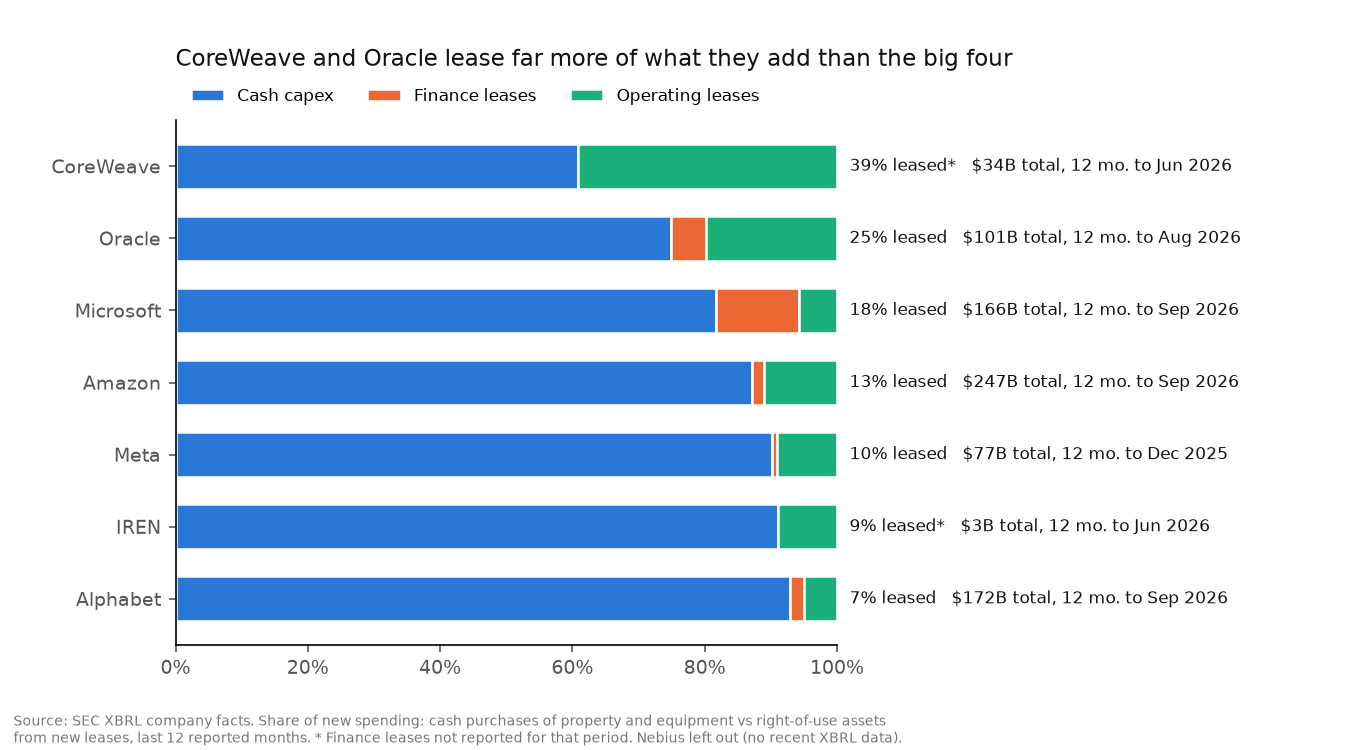
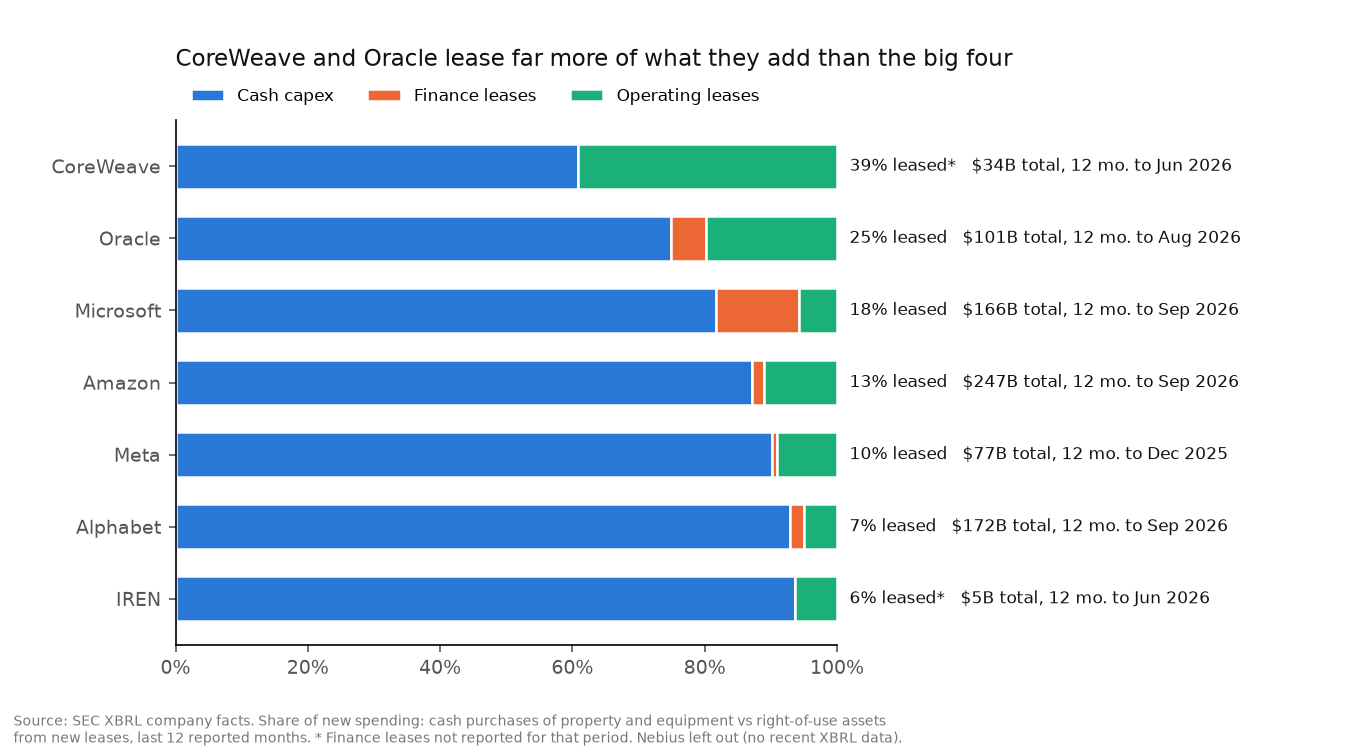
Day 7: capex checked against filings, IREN GPU capex, Amazon call notes

diff --git a/src/check_capex.py b/src/check_capex.py
@@ -1,0 +1,68 @@
+# ==============================================================================
+# Script: check_capex.py
+# Project: Grid Bottleneck - Check SEC XBRL capex against the filings themselves
+# Objective: For each cached 10-Q and 10-K, find the capex line in the cash flow
+#            statement and confirm the XBRL year-to-date value appears in it.
+# Inputs:  data/raw/sec/<company>.json, data/raw/sec/filings/*.txt
+#          (run lease_notes.py first to download the filings)
+# Outputs: data/clean/capex_check.csv
+# ==============================================================================
+
+from pathlib import Path
+import glob
+import json
+import re
+
+import pandas as pd
+
+ROOT = Path(__file__).resolve().parent.parent
+# company: (cash flow label, XBRL tag, unit the statement uses)
+LINES = {
+    "amazon": (r"Purchases of property and equipment", "PaymentsToAcquireProductiveAssets", 1e6),
+    "microsoft": (r"Additions to property and equipment", "PaymentsToAcquirePropertyPlantAndEquipment", 1e6),
+    "alphabet": (r"Purchases of property and equipment", "PaymentsToAcquirePropertyPlantAndEquipment", 1e6),
+    "meta": (r"Purchases of property and equipment", "PaymentsToAcquirePropertyPlantAndEquipment", 1e6),
+    "oracle": (r"Capital expenditures", "PaymentsToAcquirePropertyPlantAndEquipment", 1e6),
+    "coreweave": (r"Purchase of property and equipment", "PaymentsToAcquirePropertyPlantAndEquipment", 1e6),
+    "iren": (r"Payments for property, plant and equipment", "PaymentsToAcquirePropertyPlantAndEquipment", 1e3),
+}
+
+
+def ytd_value(facts: pd.DataFrame, period: str, form: str) -> float | None:
+    """The filing's own year-to-date (10-Q) or full-year (10-K) value. Skips Amazon's trailing 12 months."""
+    f = facts[(facts.end == period) & (facts.form == form)].copy()
+    f["days"] = (pd.to_datetime(f.end) - pd.to_datetime(f.start)).dt.days
+    f = f[f.days.between(350, 380)] if form == "10-K" else f[f.days < 300]
+    return None if f.empty else f.sort_values("days").iloc[-1].val
+
+
+def row_numbers(text: str, label: str) -> list[int]:
+    nums = []
+    for m in re.finditer(label, text, re.I):
+        window = re.sub(r"^[^$(\d]{0,80}", "", text[m.end(): m.end() + 200])  # skip trailing words in the label
+        window = re.split(r"[A-Za-z]{4,}", window, maxsplit=1)[0]  # stop at the next line's label
+        nums += [int(n.replace(",", "")) for n in re.findall(r"\d[\d,]{2,}", window)]
+    return nums
+
+
+if __name__ == "__main__":
+    rows = []
+    for co, (label, tag, unit) in LINES.items():
+        facts = pd.DataFrame(json.load(open(ROOT / f"data/raw/sec/{co}.json"))["facts"]["us-gaap"][tag]["units"]["USD"])
+        for path in sorted(glob.glob(str(ROOT / f"data/raw/sec/filings/{co}_*.txt"))):
+            _, period, form = Path(path).stem.split("_")
+            xbrl = ytd_value(facts, period, form)
+            nums = row_numbers(Path(path).read_text(), label)
+            # CoreWeave switched from thousands to millions after its first three 10-Qs
+            found = xbrl is not None and any(abs(n * u - xbrl) <= max(u, 0.001 * xbrl) for n in nums for u in (unit, 1e3))
+            rows.append({"company": co, "period": period, "form": form,
+                         "xbrl_usd_m": None if xbrl is None else round(xbrl / 1e6),
+                         "in_filing": found, "row_numbers": nums[:6]})
+    r = pd.DataFrame(rows)
+    r.to_csv(ROOT / "data/clean/capex_check.csv", index=False)
+    print(r.groupby("company").in_filing.agg(["sum", "count"]).to_string())
+    bad = r[~r.in_filing]
+    # Meta's three early-2023 10-Qs: the XBRL value is Meta's later revision, off by under 1%
+    print("\nNot matched:" if len(bad) else "\nAll matched.")
+    if len(bad):
+        print(bad.to_string(index=False))

diff --git a/src/peers.py b/src/peers.py
@@ -29,6 +29,10 @@ PEERS = {
     "IREN": ("0001878848", CASH, "Neocloud"),
 }
 
+# IREN splits capex into "property, plant and equipment" and "computer hardware" (GPUs).
+# Only the first is tagged in XBRL, so add the second from the 10-K cash flow statement.
+EXTRA_CASH_CAPEX = {("IREN", "2026-06-30"): 1_335_081_000}  # FY2026 10-K, "Payments for computer hardware"
+
 
 def facts_frame(facts: dict, tag: str) -> pd.DataFrame:
     r = pd.DataFrame(facts["facts"]["us-gaap"][tag]["units"]["USD"])
@@ -82,7 +86,7 @@ def peer_table() -> pd.DataFrame:
         fin_val = fin.get(end)
         rows.append({
             "company": name, "group": group, "ttm_end": end.date(),
-            "cash_capex": series["cash_capex"][end],
+            "cash_capex": series["cash_capex"][end] + EXTRA_CASH_CAPEX.get((name, str(end.date())), 0),
             "finance_leases": 0.0 if fin_val is None else fin_val,
             "finance_missing": fin_val is None,
             "operating_leases": series["operating_leases"][end],

diff --git a/notes/amazon_q3_2026_call.md b/notes/amazon_q3_2026_call.md
@@ -1,0 +1,47 @@
+# Amazon Q3 2026 earnings call (October 29, 2026)
+
+Read from the Motley Fool transcript. Short phrases are quoted; everything else is paraphrased. Check exact wording against the transcript before quoting in a post.
+
+## What they said
+
+**Demand and capacity**
+- Andy Jassy said AWS demand is still very strong and customers take new capacity almost as fast as Amazon installs it.
+- Large customers reserve blocks of "hundreds of megawatts or sometimes up to a gigawatt" well in advance. Amazon keeps some capacity free for on-demand use.
+- He said Amazon has good visibility into demand for 2027 and 2028, and part of 2029.
+- Amazon is installing an AI accelerator about every 14 seconds.
+- AWS grew 39.3% year over year, the sixth straight quarter of faster growth.
+
+**Spending**
+- Brian Olsavsky (CFO): Q3 cash capex was $75.9 billion, mostly AWS and AI infrastructure.
+- Jassy: still expects about $220 billion of cash capex in 2026, and "meaningfully more" in 2027.
+- Olsavsky named component pricing (including memory chips) as a margin headwind.
+
+**Owned vs leased**
+- Jassy said most of Amazon's capacity is "either owned or long leased," and argued that gives it a big cost edge over colocation and neocloud providers.
+
+## What they didn't say
+
+- **No mention of power or grid constraints** as a limit on growth on the call. "Energy prices" only appears in the standard risk disclaimer.
+- The 10-Q does mention power once: Amazon signs energy contracts, some running 20 years, to "secure electricity supply" for existing and future operations. So Amazon locks power in years ahead, but it never calls power a constraint.
+- **No mention of transformers or grid equipment.** The supply worries they did name were chips and memory.
+- **No mention of hardware waiting for power** or the "Early Rack Receipt" practice from the Business Insider report.
+
+## How this fits the project
+
+- It cuts against the demand-slowdown story: demand is described as ahead of supply, with reservations years out, and capex is going up in 2027.
+- It doesn't confirm the power-bottleneck story either. Amazon talks about being supply-limited, but it names chips, not power. Companies rarely volunteer that power is holding them back, so silence isn't proof either way. The lease-note data and the grid queue data (Day 8) have to carry that argument.
+- The Business Insider claim about racks waiting for power stays "reported," not confirmed by Amazon.
+
+## Reconciling capex
+
+- The 10-Q reports **purchases of property and equipment of $77,259M** for Q3 (the number in `capex_quarterly.csv`).
+- Amazon's "cash capex" on the call nets out **proceeds from property and equipment sales and incentives of $1,381M**: $77,259M - $1,381M = $75,878M, about $75.9B. It matches.
+- So my series is gross purchases. That's fine for comparing companies, but say "purchases of property and equipment" when citing Amazon, or use the net figure to match what Amazon says.
+- 2026 so far: $175.7B gross through Q3, against about $220B guided (which is net). That leaves roughly $50B for Q4, below Q3's pace.
+
+## Sources
+
+- [Motley Fool: Amazon Q3 2026 earnings call transcript](https://www.fool.com/earnings/call-transcripts/2026/10/30/amazon-amzn-q3-2026-earnings-call-transcript/)
+- [Yahoo Finance: Q3 2026 call highlights](https://finance.yahoo.com/markets/stocks/articles/amazon-com-inc-amzn-q3-051330166.html)
+- [Fast Company: Amazon's Q3 results fall short of expectations](https://www.fastcompany.com/91632984/amazon-posts-3rd-quarter-results-fall-short-wall-streets-expectations)
+- Amazon 10-Q for the quarter ended September 30, 2026 (filed October 30, 2026), cash flow statement

diff --git a/log.md b/log.md
@@ -10,3 +10,4 @@
 - **2026-10-30 (Day 6).** Pulled SEC XBRL company facts for Amazon, Microsoft, Alphabet and Meta (`src/capex.py`, cached in `data/raw/sec`). The SEC needs a contact in the user agent; it's in `.env`, which is git-ignored. Python needed `certifi` for HTTPS. Quarterly cash capex, Q1 2022 to Q3 2026: four-company total $36B to $202B a quarter. Amazon Q3 2026 is $77.3B, reported directly as a 3-month figure in the 10-Q filed today. Leases: added new right-of-use assets (finance and operating) by calendar year. Lease share of total new spending in 2025: Microsoft 27% (33% in 2024), Amazon 15% (includes warehouses and stores), Meta 10%, Alphabet 6%. So leases matter most at Microsoft, but cash is the large majority at all four. Leases are booked when they start, so signed-but-unbuilt data centers don't show up; those are only in the lease notes as text ("leases not yet commenced"). No XBRL tag for them. Full-year 2024 cash capex matches widely reported figures; still need to check against the filings on Day 7. Charts: `capex_quarterly.png`, `capex_and_leases_annual.png`.
 - **2026-10-30 (Day 6, peers and lease notes).** Added Oracle, CoreWeave and IREN (`src/peers.py`). Nebius is out: foreign filer, XBRL stops at 2023. Compared on trailing 12 months (YTD + last full year - last year's YTD) so different fiscal years line up. Lease share of new spending: CoreWeave 39%, Oracle 25%, Microsoft 18%, Amazon 13%, Meta 10%, IREN 9%, Alphabet 7%. Fixed a bug in `capex.quarterly`: a skipped quarter turned a 6-month gap into one "quarter" (hit Oracle's lease data). Wrote `src/lease_notes.py`: downloads every 10-Q and 10-K since 2022 and pulls "leases not yet commenced" amounts, one regex per company, every value checked against its quote. Caught two splits (Microsoft and early Meta report operating and finance separately; Alphabet's 10-Ks split short and long term). Latest signed-not-started: Microsoft $365B, Meta $356B, Oracle $288B, Amazon $165B, Alphabet $131B, CoreWeave $36B (Jun 2026). These are total payments over terms up to 20 years, not one year of spending. IREN is the landlord in its leases, so it's left out of that chart. Oracle states a dollar figure only from Feb 2025. Charts: `peers_ttm.png`, `leases_not_commenced.png`.
   Fix: Oracle's 10-K says "we have" where 10-Qs say "we had"; added May 2025 ($43.4B). Top-row panels now show years.
+- **2026-10-30 (Day 7).** Wrote `src/check_capex.py`: finds the capex line in every cached filing's cash flow statement and confirms the XBRL year-to-date value is in it. 116 of 119 match exactly. The 3 misses are Meta's early-2023 10-Qs, which Meta revised by under 1% in later filings; the data uses the revision. CoreWeave reported in thousands for its first three 10-Qs. Found a real gap: IREN splits capex into property and equipment plus "computer hardware" (GPUs), and only the first is tagged in XBRL. Added the FY2026 hardware line ($1,335M) from the 10-K in `peers.py`; IREN's capex goes from $3.0B to $4.3B and its lease share from 9% to 6%. Amazon call notes in `notes/amazon_q3_2026_call.md`: demand still ahead of supply, capex up "meaningfully" in 2027, but no mention of power, grid or transformers. Amazon's $75.9B "cash capex" = $77.3B purchases - $1.4B sale proceeds and incentives; my series is the gross figure. Next: Day 8, grid queues.
